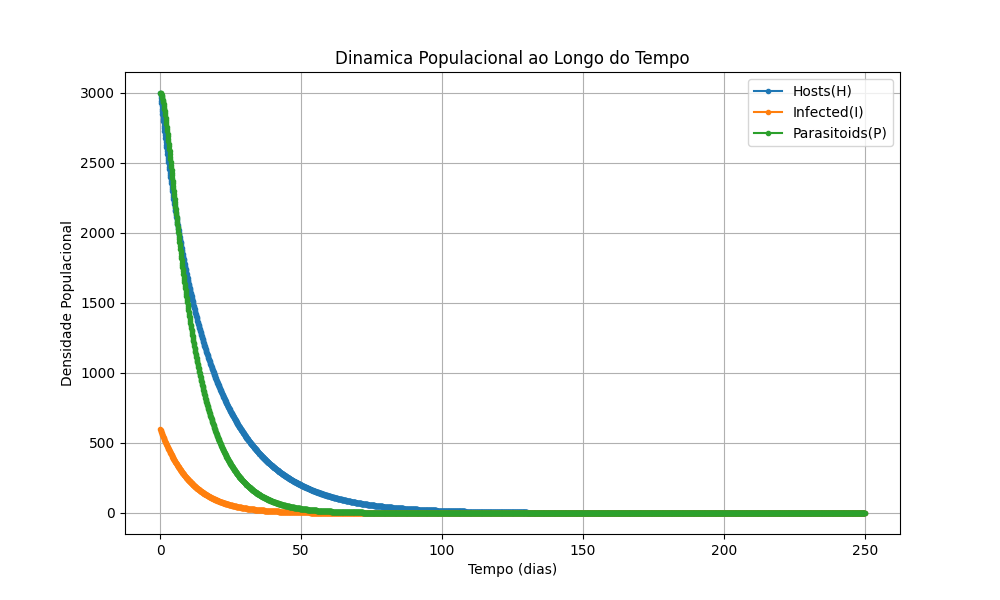
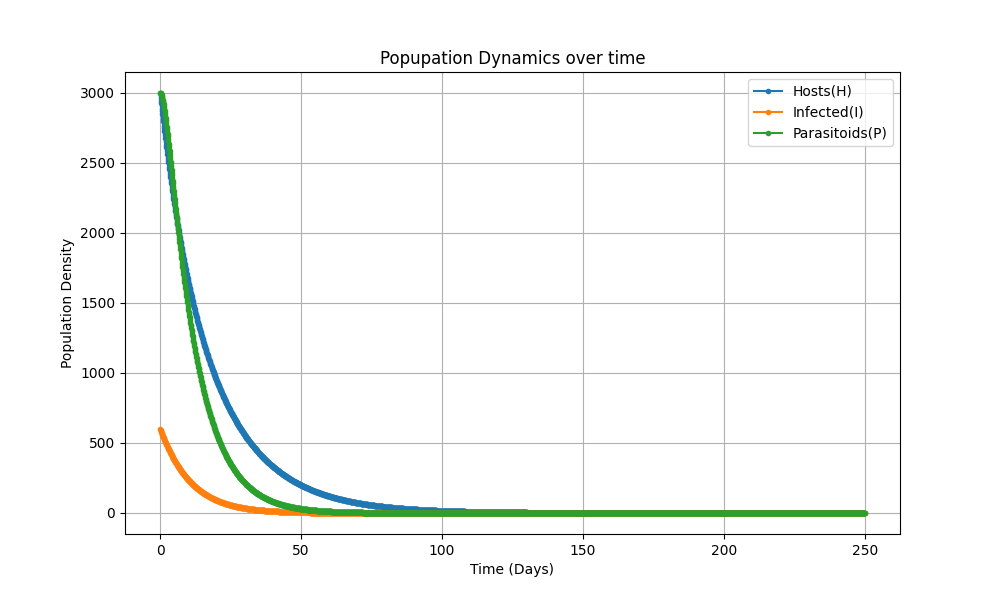
fix: consistencia do idioma nos gráficos

Changed region(s): [[0.341, 0.09, 0.682, 0.12], [0.062, 0.36, 0.093, 0.63], [0.465, 0.93, 0.558, 0.96]]

diff --git a/src/main/plot/plot.py b/src/main/plot/plot.py
@@ -8,9 +8,9 @@ def plotGraph(time: Parameter, parameters: list[Parameter], imageName: str) -> N
         plt.plot(time.values, param.values, label=param.label, marker='.')
         
 
-    plt.title('Dinamica Populacional ao Longo do Tempo')
-    plt.xlabel('Tempo (dias)')
-    plt.ylabel('Densidade Populacional')
+    plt.title('Popupation Dynamics over time')
+    plt.xlabel('Time (Days)')
+    plt.ylabel('Population Density')
     plt.legend()
     plt.grid()
     plt.savefig(f'graphs/{imageName}.png') 

diff --git a/src/main/rafikov/main.py b/src/main/rafikov/main.py
@@ -57,5 +57,5 @@ def rafikov(parameters: Param, days: int, instantsPerDay: int)-> None:
    plotGraph(time_points, params, f'rafikov-{parameters.equilibrium.description}')
 
 
-param = Param(Equilibrium.THIRD)
+param = Param(Equilibrium.SECOND)
 rafikov(param, 250, 10)
